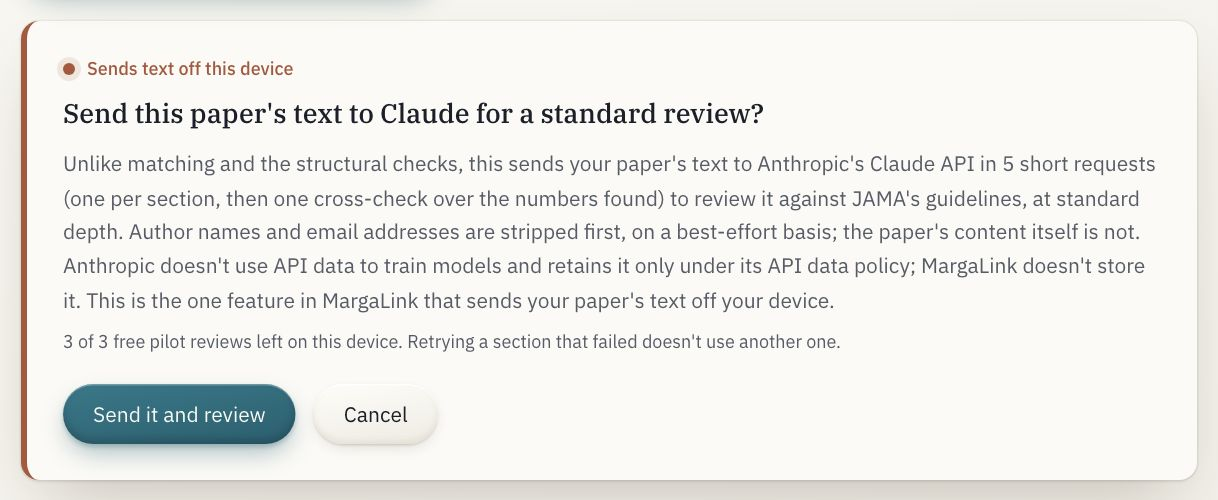
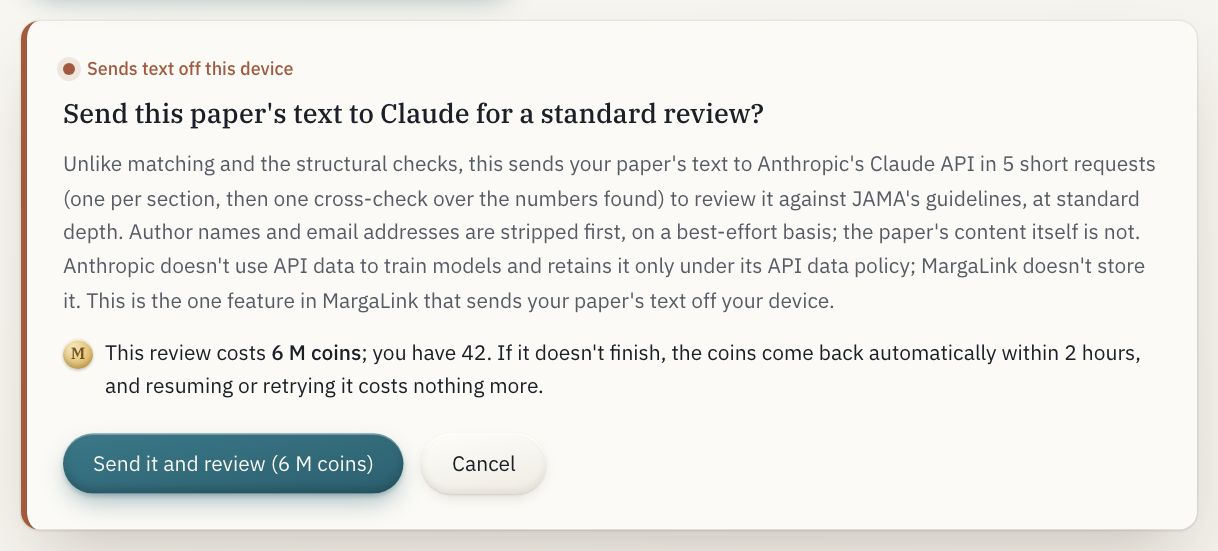
Privacy notice for accounts, the terms, and the guide on M coins
The privacy page's account section becomes an itemised notice: what an
account keeps, what is kept briefly (a running review's section ids and
lengths, sign-in links, rate counters), the welcome fingerprint that
outlives deletion, what is never kept, the cookies, who else is involved,
and your choices; the review exception says what a paid review keeps. New
/terms: M coins as prepaid credits for MargaLink's AI features only, with
expiry, carry-over, refunds and deletion spelled out. The guide describes
prices instead of per-device allowances, and its tray, review and figures
screenshots are re-shot signed in. CLAUDE.md names the account Functions
and the new environment variables, including NEXT_PUBLIC_CONTACT_EMAIL.

Claude-Session: https://claude.ai/code/session_01FJMbDDx5ekqz6uR17AVMfJ

diff --git a/web/src/app/terms/page.tsx b/web/src/app/terms/page.tsx
@@ -1,0 +1,128 @@
+import type { Metadata } from "next";
+import type { ReactNode } from "react";
+import Link from "next/link";
+import PageHeader from "@/components/PageHeader";
+import { PRO, WELCOME_COINS } from "@/lib/coins";
+import { CONTACT_EMAIL } from "@/lib/site";
+
+export const metadata: Metadata = {
+  title: "Terms | MargaLink",
+  description: "The terms for using MargaLink, and how M coins work.",
+};
+
+// Plain terms for a small service. M coins are described as prepaid usage
+// credits for MargaLink's own AI features: never a wallet, never money.
+export default function TermsPage() {
+  return (
+    <main className="mx-auto w-full max-w-2xl px-6 pt-3 pb-20">
+      <PageHeader width="2xl" title="Terms" subtitle={<p className="mt-3 text-lg text-ink-soft">What you can expect from MargaLink, what we ask of you, and how M coins work.</p>} />
+
+      <div className="mt-10 space-y-8 text-ink-soft [&_strong]:font-medium [&_strong]:text-ink">
+        <Part title="The service">
+          <p>
+            MargaLink helps you find a journal for a paper, check it against a journal&apos;s rules, make figures and write it. Most of it runs in your
+            browser and is free, with no account. Two features send something to Anthropic&apos;s Claude and cost M coins: the AI pre-submission
+            review and Ask Claude in the figure studio. The{" "}
+            <Link href="/privacy" className="text-accent hover:underline">
+              privacy page
+            </Link>{" "}
+            says exactly what each one sends.
+          </p>
+        </Part>
+
+        <Part title="Your account">
+          <p>
+            One account per person, signed in with Google or an emailed link. Keep access to that email address: it&apos;s how you sign in. We may
+            suspend an account used to abuse the service, for example to farm welcome bonuses or get around charges.
+          </p>
+        </Part>
+
+        <Part title="M coins">
+          <ul className="list-disc space-y-2 pl-5">
+            <li>
+              M coins are prepaid credits for MargaLink&apos;s AI features, and nothing else. They have no cash value, can&apos;t be transferred to
+              anyone else, and can&apos;t be exchanged for money, except as our{" "}
+              <Link href="/refunds" className="text-accent hover:underline">
+                refund policy
+              </Link>{" "}
+              or the law provides.
+            </li>
+            <li>A new account gets {WELCOME_COINS} M coins, once per email address.</li>
+            <li>Coins you buy in a pack don&apos;t expire.</li>
+            <li>
+              Pro adds {PRO.coinsPerMonth} M coins each month. Unspent Pro coins carry over up to {PRO.carryCap}; beyond that they lapse when the next
+              month&apos;s arrive. Pro coins are spent before others.
+            </li>
+            <li>
+              The price of every use is shown before anything is sent. A review that doesn&apos;t finish is refunded automatically, and a failed Ask
+              Claude request is refunded at once.
+            </li>
+            <li>Deleting your account ends its coins; they can&apos;t be restored.</li>
+            <li>We may change what things cost or what coins cost; coins you already have keep working at the prices shown when you use them.</li>
+          </ul>
+        </Part>
+
+        <Part title="Paying">
+          <p>
+            Coin packs and Pro are sold by Paddle, our reseller and merchant of record, under its buyer terms: Paddle takes the payment, charges any
+            tax and sends the receipt. Pro renews until you cancel it, which you can do at any time from your account page; it then runs to the end of
+            the period you paid for.
+          </p>
+        </Part>
+
+        <Part title="What the AI gives you">
+          <p>
+            A review or a figure from Claude is an aid, not an editorial decision. It can be wrong or incomplete, and no journal is bound by it. Check
+            what it says before you rely on it or act on it.
+          </p>
+        </Part>
+
+        <Part title="Your work">
+          <p>
+            Your papers, data and figures stay yours; we claim no rights in them and keep none of them. When you send something to Claude through
+            MargaLink, you confirm you&apos;re allowed to, for example with your co-authors&apos; agreement for an unpublished manuscript.
+          </p>
+        </Part>
+
+        <Part title="Fair use">
+          <p>
+            Don&apos;t try to get around charges or limits, overload the service, call its API from anything but its own pages, or send material you
+            have no right to share. Daily capacity is limited; when it&apos;s reached, nothing is charged.
+          </p>
+        </Part>
+
+        <Part title="If something goes wrong">
+          <p>
+            MargaLink is provided as it is, and we can&apos;t promise it will always be available or free of errors. To the extent the law allows, our
+            liability to you is limited to what you paid us in the twelve months before the problem. Nothing here limits rights you have under consumer
+            law that can&apos;t be waived.
+          </p>
+        </Part>
+
+        <Part title="Changes, law and contact">
+          <p>
+            We&apos;ll say on this page when these terms change; using MargaLink after that means you accept them. These terms are governed by the laws
+            of India. Questions:{" "}
+            {CONTACT_EMAIL ? (
+              <a href={`mailto:${CONTACT_EMAIL}`} className="text-accent hover:underline">
+                {CONTACT_EMAIL}
+              </a>
+            ) : (
+              "the contact address listed here once accounts open"
+            )}
+            .
+          </p>
+        </Part>
+      </div>
+    </main>
+  );
+}
+
+function Part({ title, children }: { title: string; children: ReactNode }) {
+  return (
+    <section className="border-t border-line pt-5">
+      <h2 className="mb-2 font-serif text-xl font-medium text-ink">{title}</h2>
+      {children}
+    </section>
+  );
+}

diff --git a/web/src/app/privacy/page.tsx b/web/src/app/privacy/page.tsx
@@ -1,6 +1,7 @@
 import Link from "next/link";
 import type { Metadata } from "next";
 import PageHeader from "@/components/PageHeader";
+import { CONTACT_EMAIL } from "@/lib/site";
 
 export const metadata: Metadata = {
   title: "How privacy works | MargaLink",
@@ -136,6 +137,11 @@ export default function PrivacyPage() {
           send it, and in the writing workspace the status line counts every request that
           carried text you agreed to send.
         </li>
+        <li>
+          A review is paid in M coins, charged when you confirm. So that each request can be
+          checked against what was paid for, the server keeps which sections the review covers
+          and their lengths (never their text) for about two hours.
+        </li>
       </ul>
 
       <h2 id="figures-exception" className="mt-12 font-serif text-xl font-medium">
@@ -207,11 +213,80 @@ export default function PrivacyPage() {
         </li>
       </ul>
 
-      <h2 className="mt-12 font-serif text-xl font-medium">Accounts and payment</h2>
+      <h2 id="accounts" className="mt-12 scroll-mt-24 font-serif text-xl font-medium">
+        Accounts, M coins and payment
+      </h2>
       <p className="mt-3 text-ink-soft">
-        If accounts exist later, they&apos;ll need only an email address.
-        Payment details stay with the payment provider; MargaLink never
-        sees or stores card numbers.
+        Only the two features above that cost money each time they run, the AI review and Ask
+        Claude, need an account. Everything else works without one, and a visitor who isn&apos;t
+        signed in makes no account requests at all. The three rules at the top of this page apply
+        to accounts too: nothing from a paper is ever part of one.
+      </p>
+      <h3 className="mt-6 font-medium">What an account keeps</h3>
+      <ul className="mt-2 list-disc space-y-2 pl-5 text-ink-soft">
+        <li>Your email address. If you use &ldquo;Continue with Google&rdquo;, also Google&apos;s id for your account, so we recognise it. Not your name, not your photo.</li>
+        <li>Your M coin history: each welcome bonus, purchase, charge and refund, with its date and the payment provider&apos;s reference for purchases.</li>
+        <li>Your sign-ins: for each browser you&apos;re signed in on, a one-way fingerprint of its sign-in token and when it expires (30 days, extended while you use it).</li>
+        <li>Which version of this notice you signed up under.</li>
+      </ul>
+      <h3 className="mt-6 font-medium">Kept briefly</h3>
+      <ul className="mt-2 list-disc space-y-2 pl-5 text-ink-soft">
+        <li>While a paid review runs: which sections it covers and their lengths, deleted about two hours after it starts.</li>
+        <li>An emailed sign-in link&apos;s fingerprint, until it&apos;s used or 15 minutes pass.</li>
+        <li>Counters that limit how many sign-in emails an address or a network can ask for, keyed by one-way fingerprints that change daily. They expire within a day.</li>
+      </ul>
+      <h3 className="mt-6 font-medium">Kept after you delete your account</h3>
+      <p className="mt-2 text-ink-soft">
+        A one-way fingerprint of your email address, so the welcome bonus is given once per
+        address. It can&apos;t be turned back into the address.
+      </p>
+      <h3 className="mt-6 font-medium">Never kept</h3>
+      <p className="mt-2 text-ink-soft">
+        Anything from your papers, spreadsheets or figures. Card or bank details: buying M coins
+        goes through Paddle, which sells them to you as the merchant of record, takes the payment,
+        handles the tax and sends the receipt. MargaLink never sees or stores card numbers.
+      </p>
+      <h3 className="mt-6 font-medium">Cookies</h3>
+      <p className="mt-2 text-ink-soft">
+        Signed in, your browser holds two: one carries your sign-in and can&apos;t be read by
+        pages, the other only says that you&apos;re signed in, so signed-out pages ask nothing. A
+        third, short-lived one exists only during a Google sign-in. No tracking or advertising
+        cookies, ever.
+      </p>
+      <h3 className="mt-6 font-medium">Who else is involved</h3>
+      <ul className="mt-2 list-disc space-y-2 pl-5 text-ink-soft">
+        <li>Cloudflare hosts the site and the account database.</li>
+        <li>Google, only if you choose it, tells us your verified email address and its id for your account.</li>
+        <li>Resend sends sign-in emails: your address and the link.</li>
+        <li>Paddle takes payments, as the merchant of record.</li>
+        <li>Anthropic runs the AI review and Ask Claude, as described above.</li>
+      </ul>
+      <h3 className="mt-6 font-medium">What we use it for, and your choices</h3>
+      <p className="mt-2 text-ink-soft">
+        Your address signs you in and receives sign-in links; we don&apos;t send marketing email.
+        Your coin history runs the service and our accounts. On{" "}
+        <Link href="/account" className="text-accent hover:underline">
+          your account page
+        </Link>{" "}
+        you can see that history, download everything we hold as a file, sign out on every
+        browser, and delete your account, which is immediate. For anything else about your data,
+        or a complaint,{" "}
+        {CONTACT_EMAIL ? (
+          <>
+            write to{" "}
+            <a href={`mailto:${CONTACT_EMAIL}`} className="text-accent hover:underline">
+              {CONTACT_EMAIL}
+            </a>
+            .
+          </>
+        ) : (
+          "write to the contact address listed here once accounts open."
+        )}{" "}
+        The{" "}
+        <Link href="/terms" className="text-accent hover:underline">
+          terms
+        </Link>{" "}
+        cover how M coins work.
       </p>
     </main>
   );

diff --git a/web/src/app/guide/page.tsx b/web/src/app/guide/page.tsx
@@ -54,7 +54,7 @@ export default function GuidePage() {
         >
           <Shot
             name="tray"
-            alt="The tray at the top of every page: the MargaLink mark, the five tools, Guide and Privacy"
+            alt="The tray at the top of every page: the MargaLink mark, the five tools, Guide, Privacy and your M coins"
             notes={[
               <>
                 <strong>The MargaLink mark</strong>: back to the landing page.
@@ -78,6 +78,10 @@ export default function GuidePage() {
               <>
                 <strong>Privacy</strong>: the rules below, in full, with a diagram.
               </>,
+              <>
+                <strong>Your M coins</strong>, once you&apos;re signed in: the balance, and a click to your account. Signed out, it says{" "}
+                <em>Sign in</em>; only the AI review and Ask Claude need an account.
+              </>,
             ]}
           />
           <Aside title="What stays on your device">
@@ -89,12 +93,12 @@ export default function GuidePage() {
           </Aside>
           <Aside tone="away" title="The two things that can leave it, only when you confirm">
             <p>
-              <strong>The AI review</strong> sends your paper&apos;s text to Claude, in short requests, after a notice that says exactly that. You get 3
-              free reviews on a device.
+              <strong>The AI review</strong> sends your paper&apos;s text to Claude, in short requests, after a notice that says exactly that. It needs an
+              account and costs M coins; the price is on the button, and a review that doesn&apos;t finish is refunded.
             </p>
             <p>
               <strong>Ask Claude</strong> in the figure studio sends a description of your data: column names and types, the row count, your request;
-              never a value from a cell. Group labels go only if you tick a box. 5 requests on a device.
+              never a value from a cell. Group labels go only if you tick a box. 1 M coin a request, refunded if it fails.
             </p>
             <p>Anywhere in MargaLink, this colour marks something that would leave your device.</p>
           </Aside>
@@ -345,7 +349,8 @@ export default function GuidePage() {
                 numbers found. Author names and email addresses are stripped first (best effort).
               </>,
               <>
-                <strong>Your allowance</strong>: 3 free reviews on this device; retrying a failed section doesn&apos;t use another.
+                <strong>The price</strong>: what this review costs in M coins, and your balance. A review that doesn&apos;t finish is refunded within 2
+                hours; resuming or retrying it costs nothing more.
               </>,
               <>
                 <strong>Send it and review</strong>: the only way a review starts. Cancel sends nothing.
@@ -465,8 +470,8 @@ export default function GuidePage() {
           <Aside tone="away" title="What Ask Claude sends">
             <p>
               Column names and their types, the row count, your request, and the current figure with every text you typed blanked. Group labels only when
-              ticked, and listed in the notice each time. Never a cell value, never a sample row, never an error message from your data. 5 requests on a
-              device; templates, editing and exports are unlimited and send nothing.
+              ticked, and listed in the notice each time. Never a cell value, never a sample row, never an error message from your data. Each request
+              costs 1 M coin and is refunded if it fails; templates, editing and exports are free, unlimited and send nothing.
             </p>
           </Aside>
           <Shot

diff --git a/web/src/lib/site.ts b/web/src/lib/site.ts
@@ -4,6 +4,11 @@
 // NEXT_PUBLIC_SITE_URL once one is.
 export const SITE_URL = process.env.NEXT_PUBLIC_SITE_URL || "https://example-placeholder.margalink.invalid";
 
+// Where people write about their account or their data (the privacy page
+// and the terms name it). Set NEXT_PUBLIC_CONTACT_EMAIL with the domain;
+// accounts shouldn't open without it.
+export const CONTACT_EMAIL = process.env.NEXT_PUBLIC_CONTACT_EMAIL || null;
+
 export const SITE_NAME = "MargaLink";
 export const SITE_TITLE = "MargaLink: match, check, and review your paper without it leaving your device";
 export const SITE_DESCRIPTION =

diff --git a/web/src/app/write/_components/Workspace.tsx b/web/src/app/write/_components/Workspace.tsx
@@ -287,7 +287,7 @@ export default function Workspace({
   };
   // From a match result: the Review window, loaded with this PDF against that
   // journal — unless a review is running, which changing the journal would
-  // abort (and it costs one of the free reviews): then just show it.
+  // abort (and it's paid for): then just show it.
   const openReview = (journalId: string) => {
     if (review.reviewLoading) {
       // keep the run

diff --git a/web/src/app/sitemap.ts b/web/src/app/sitemap.ts
@@ -26,6 +26,7 @@ export default function sitemap(): MetadataRoute.Sitemap {
     { url: `${SITE_URL}/guide`, changeFrequency: "monthly", priority: 0.5 },
     { url: `${SITE_URL}/architecture`, changeFrequency: "monthly", priority: 0.3 },
     { url: `${SITE_URL}/privacy`, changeFrequency: "yearly", priority: 0.3 },
+    { url: `${SITE_URL}/terms`, changeFrequency: "yearly", priority: 0.2 },
     ...journalUrls,
   ];
 }

diff --git a/web/src/app/home/page.tsx b/web/src/app/home/page.tsx
@@ -82,6 +82,9 @@ export default function HomeDashboard() {
             <Link href="/privacy" className="hover:text-ink">
               Privacy
             </Link>
+            <Link href="/terms" className="hover:text-ink">
+              Terms
+            </Link>
             <Link href="/architecture" className="hover:text-ink">
               How it&apos;s built
             </Link>

diff --git a/CLAUDE.md b/CLAUDE.md
@@ -53,10 +53,23 @@ neither has a default-on path.
    Function re-validates it and gates Claude's reply (valid spec, columns
    that exist, no label it wasn't given; hooks through the denylist).
 
-These two Pages Functions are the project's only server-side code, and
-they share one credential (`ANTHROPIC_API_KEY`) — no new environment
-variable. Every other feature keeps rule 1 absolutely; these two are rule
-3's carve-outs, not quiet exceptions to rule 1.
+These two Pages Functions are the only server code that ever receives
+anything from a paper or a dataset, and they share one credential
+(`ANTHROPIC_API_KEY`). Every other feature keeps rule 1 absolutely; these
+two are rule 3's carve-outs, not quiet exceptions to rule 1.
+
+**Accounts, M coins and payments** (`docs/superpowers/plans/2026-09-28-accounts-coins-payments.md`):
+the two AI features cost M coins, so they need an account; nothing else
+does, and a signed-out visitor makes no account request (`useAccount.ts`
+asks `/api/me` only when the `ml_in` hint cookie exists). The account
+Functions (`functions/api/_middleware.ts`, `me.ts`, `account.ts`,
+`auth/*`, `review/start.ts`, and later `pay/*`) keep an email address,
+Google's account id, hashed sessions and an append-only coin ledger in D1
+(`migrations/`, SQL in `src/lib/ledger.ts`, prices in `src/lib/coins.ts`).
+None of them ever receives paper content: `review/start.ts` takes section
+ids and character counts, and its ticket row keeps only those, for two
+hours. Rule 2 holds for signed-in users exactly as before. Never log an
+email address, a token or a request body.
 
 ## Layout
 
@@ -64,10 +77,11 @@ variable. Every other feature keeps rule 1 absolutely; these two are rule
   journal/paper data, builds the journal index. Never runs in production;
   its output (`web/public/index/*`) is static files the browser fetches.
 - `web/` — Next.js app, static export (`output: "export"` in
-  `next.config.ts`) — no backend, **except** the two Cloudflare Pages
-  Functions in `web/functions/api/` (`review.ts`, `figure.ts`), holding the
-  Anthropic API key server-side since the browser must never see it — see
-  the disclosed exceptions above.
+  `next.config.ts`) — no backend, **except** the Cloudflare Pages
+  Functions in `web/functions/api/`: `review.ts` and `figure.ts`, holding
+  the Anthropic API key server-side since the browser must never see it
+  (see the disclosed exceptions above), and the account and payment
+  Functions beside them (see "Accounts, M coins and payments").
 
 ## Frozen decisions (Phase 0)
 
@@ -107,6 +121,12 @@ Cloudflare Pages would otherwise reject — see `docs/ARCHITECTURE.md` — then
 |---|---|---|
 | `OPENALEX_API_KEY` | `pipeline/.env` | Raises OpenAlex's rate limit; the fetchers work without it, just slower. |
 | `ANTHROPIC_API_KEY` | `web/.dev.vars` locally, the Cloudflare Pages dashboard in prod | The credential for both server-side features — `functions/api/review.ts` and `functions/api/figure.ts`. Server-side only. |
+| `DB` | `wrangler.toml` binding (D1) | Accounts, sessions, the coin ledger, review tickets. Local: `npm run db:local`; the ids in `wrangler.toml` are placeholders until `wrangler d1 create`. |
+| `GOOGLE_CLIENT_ID`, `GOOGLE_CLIENT_SECRET`, `GOOGLE_REDIRECT_URI` | `.dev.vars` / dashboard secrets | "Continue with Google" (scope `openid email`). Unset: the Google button explains it's not set up. |
+| `RESEND_API_KEY`, `EMAIL_FROM` | `.dev.vars` / dashboard secrets | Email sign-in links. |
+| `DEV_EMAIL_LOG` | `.dev.vars` only | `1` on localhost prints sign-in links to the console instead of emailing them. |
+| `PADDLE_ENV`, `PADDLE_CLIENT_TOKEN`, `PADDLE_API_KEY`, `PADDLE_WEBHOOK_SECRET` | `.dev.vars` / dashboard secrets | Coin packs and Pro through Paddle (sandbox or live). |
+| `NEXT_PUBLIC_CONTACT_EMAIL` | `web/`, build-time | The address the privacy page and the terms give for questions and complaints. Set before accounts open. |
 | `NEXT_PUBLIC_SITE_URL` | `web/`, build-time | Absolute URL for `sitemap.ts`/`robots.ts`/OG tags. Unset in dev; no domain registered yet (see `journal-finder-plan.md` §13). |
 
 ## Verification
